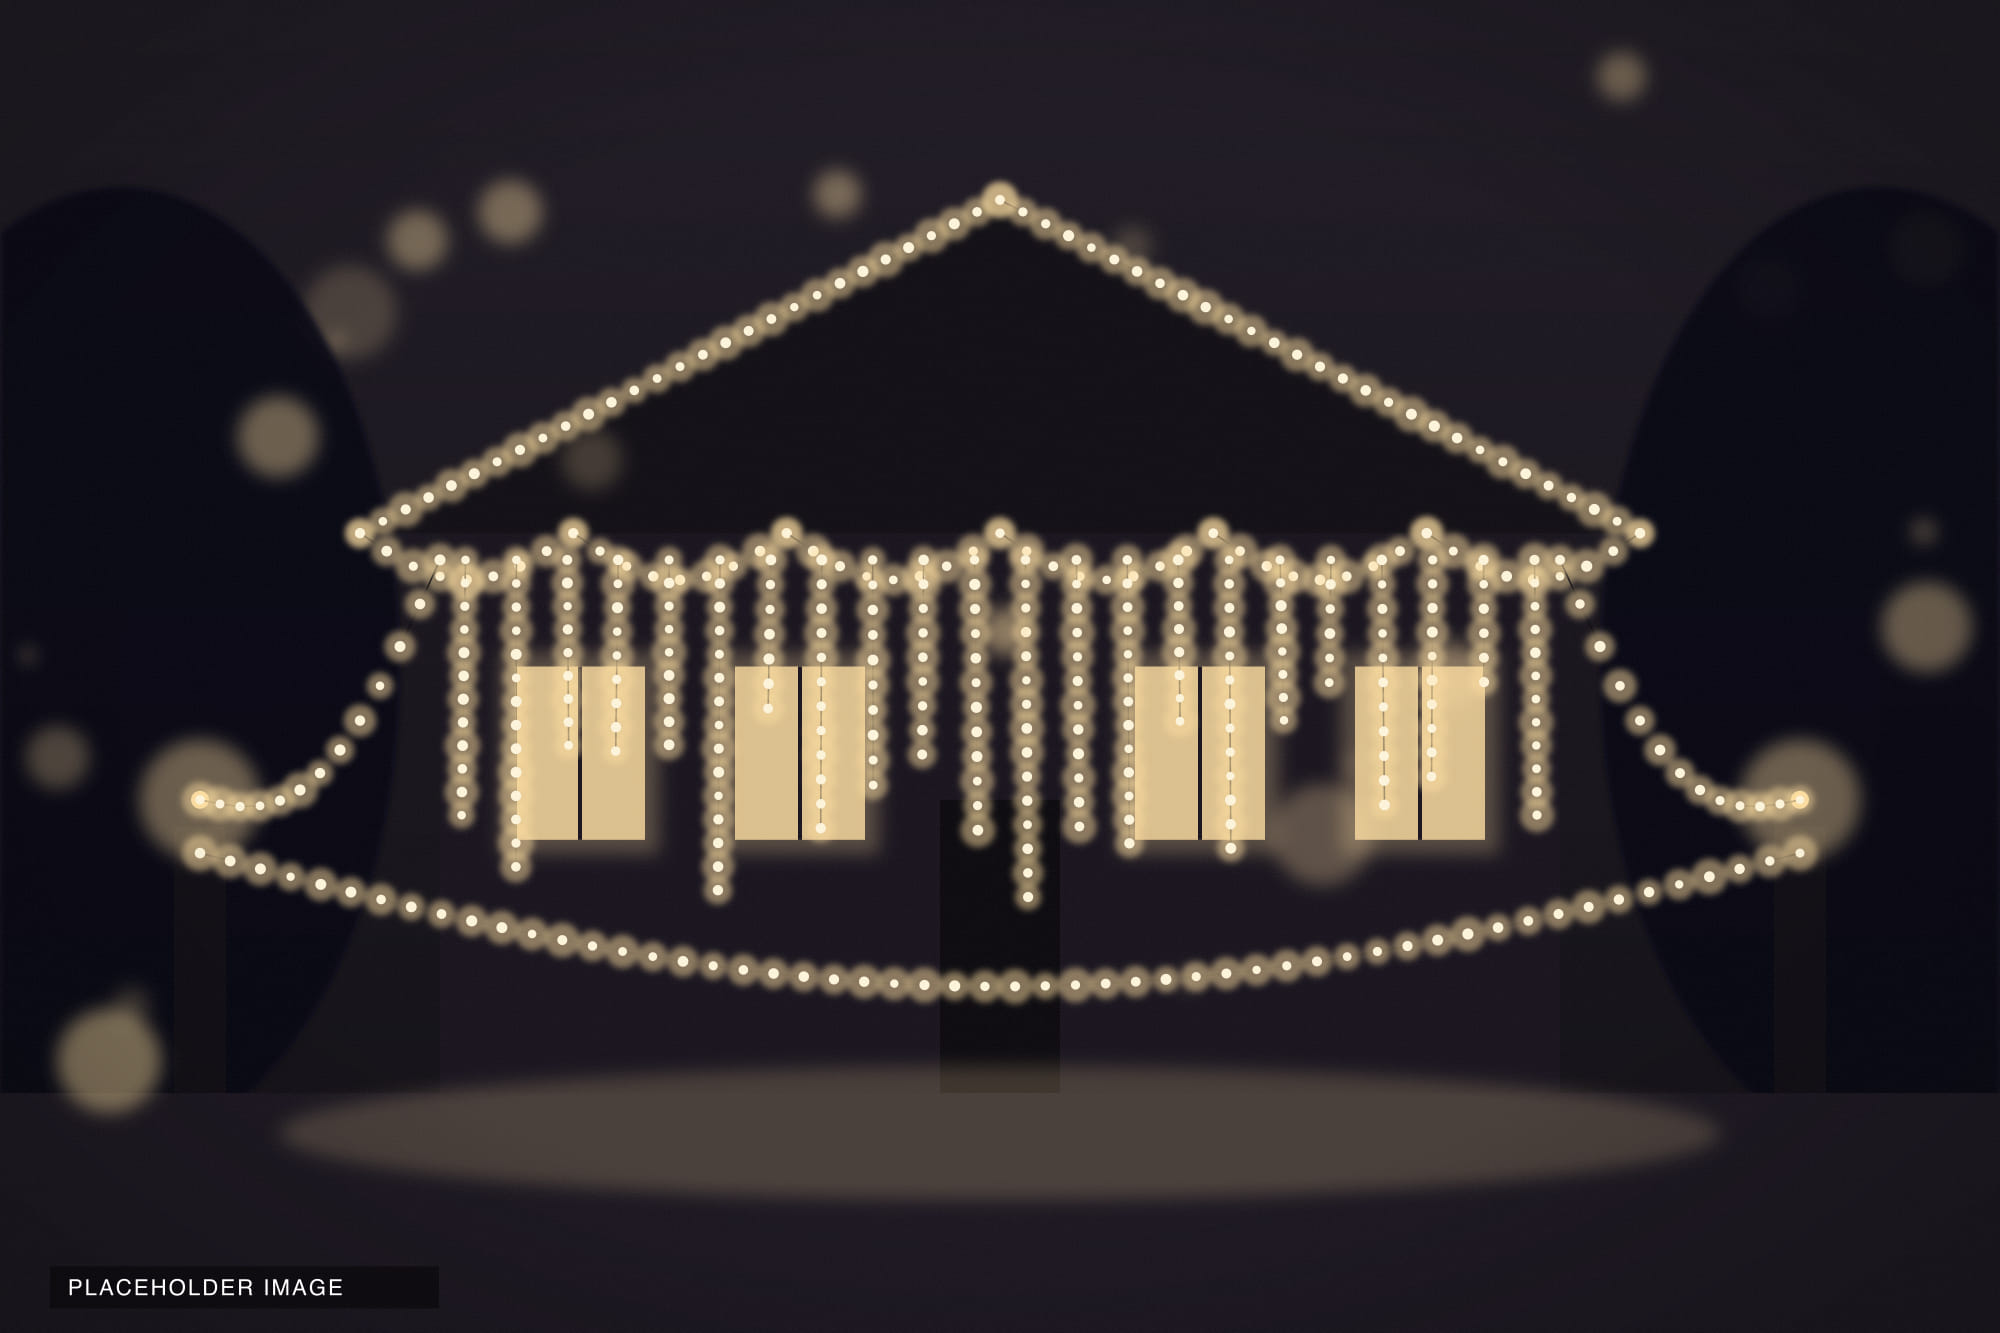
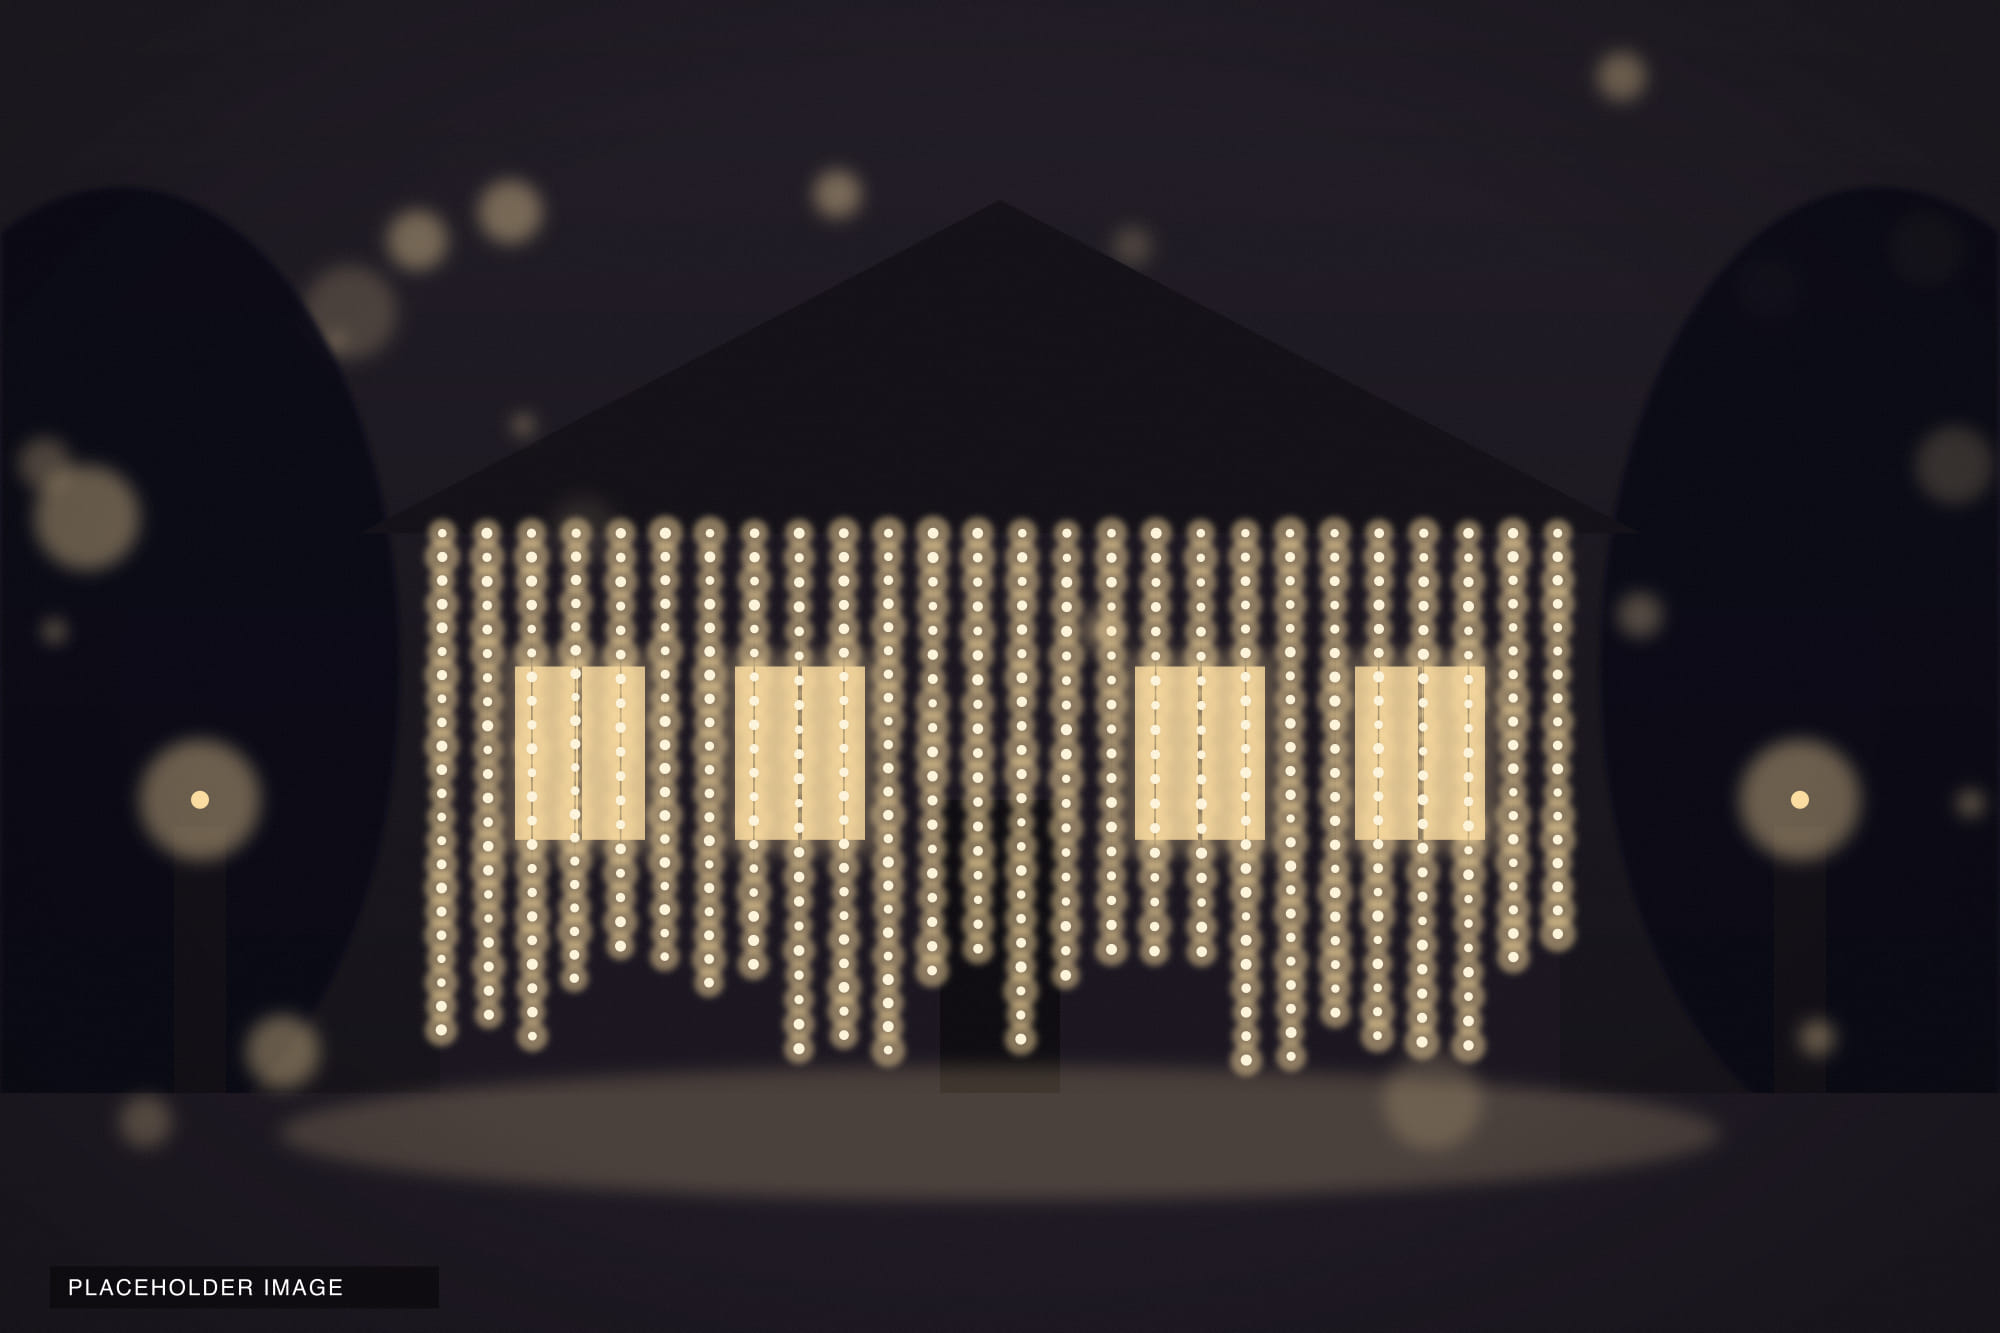
Outdoor Lighting: remove roofline outlines, show curtain lights only
- Drop 'Roofline & Window Outlines' from the page body and key points
- Regenerate placeholder image with fairy-light curtains only
- generate-placeholders.mjs: optional name filter to regenerate a single image

diff --git a/src/content/services/outdoor-lighting.md b/src/content/services/outdoor-lighting.md
@@ -4,11 +4,10 @@ order: 9
 summary: Festive string-light décor for the outside of the bride's or groom's home, marquees, shops and venues in Leicester and the Midlands.
 lead: Before the wedding day, the house comes alive. We light the front of the bride's or groom's home, the gate, the driveway and the garden with warm string lights and fairy-light curtains, so the celebration is seen from the street.
 image: /src/assets/media/services/placeholder-outdoor-lights.jpg
-imageAlt: Placeholder illustration of a house front outlined with warm string lights and fairy-light curtains at night, the style of outdoor lighting for an Asian wedding at home in Leicester.
+imageAlt: Placeholder illustration of a house front covered in warm fairy-light curtains at night, the style of outdoor lighting for an Asian wedding at home in Leicester.
 keyPointsHeading: What we offer
 keyPoints:
-  - String-light outlines for rooflines, windows, doors and gates
-  - Fairy-light curtains and swags across the front of the house
+  - Fairy-light curtains across the front of the house
   - Garden, driveway, marquee and entrance lighting
   - Shops and business frontages for festivals and celebrations
   - Designed around your property, installed and taken down for you
@@ -23,7 +22,6 @@ In many Asian families the celebrations begin well before the ceremony, with the
 ## House & Wedding Lighting
 
 We dress the outside of the home so the whole street knows there is a celebration:
-- **Roofline & Window Outlines**: Warm string lights following the shape of the house.
 - **Fairy-Light Curtains**: Cascading strands across the front of the property, porch or garden wall.
 - **Gates, Pillars & Driveways**: Lighting that welcomes your guests from the moment they arrive.
 - **Gardens & Marquees**: Soft lighting for outdoor seating, pathways and marquee entrances.
